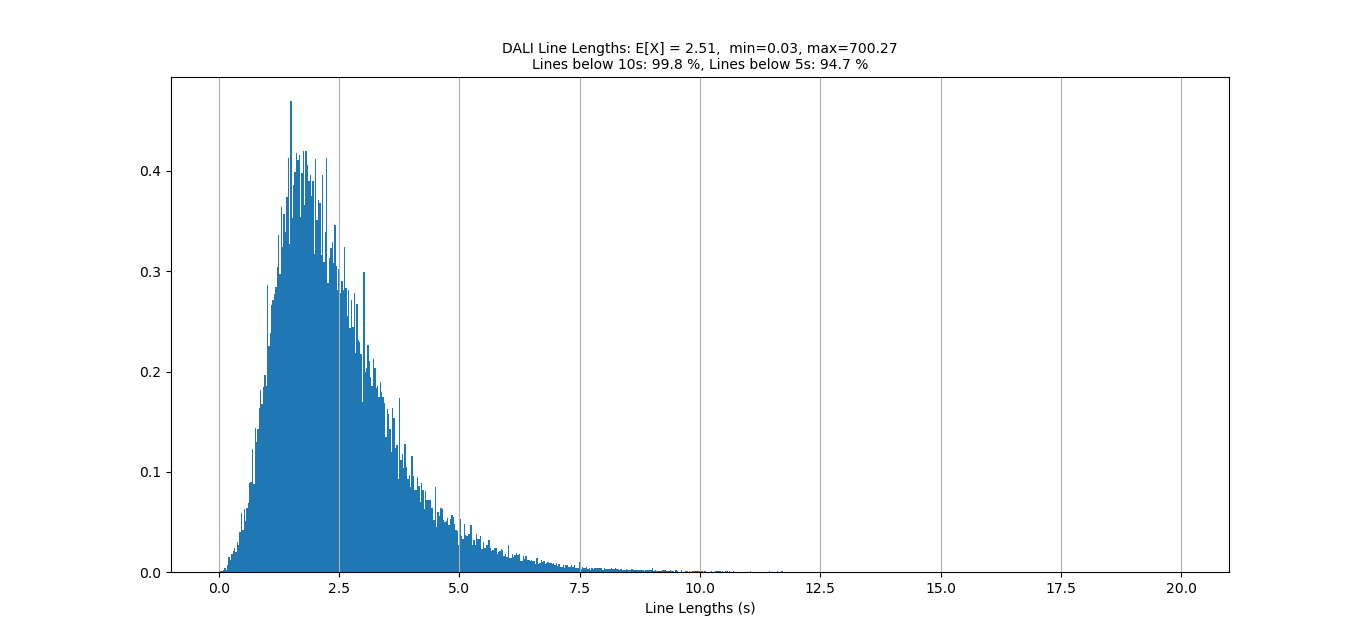
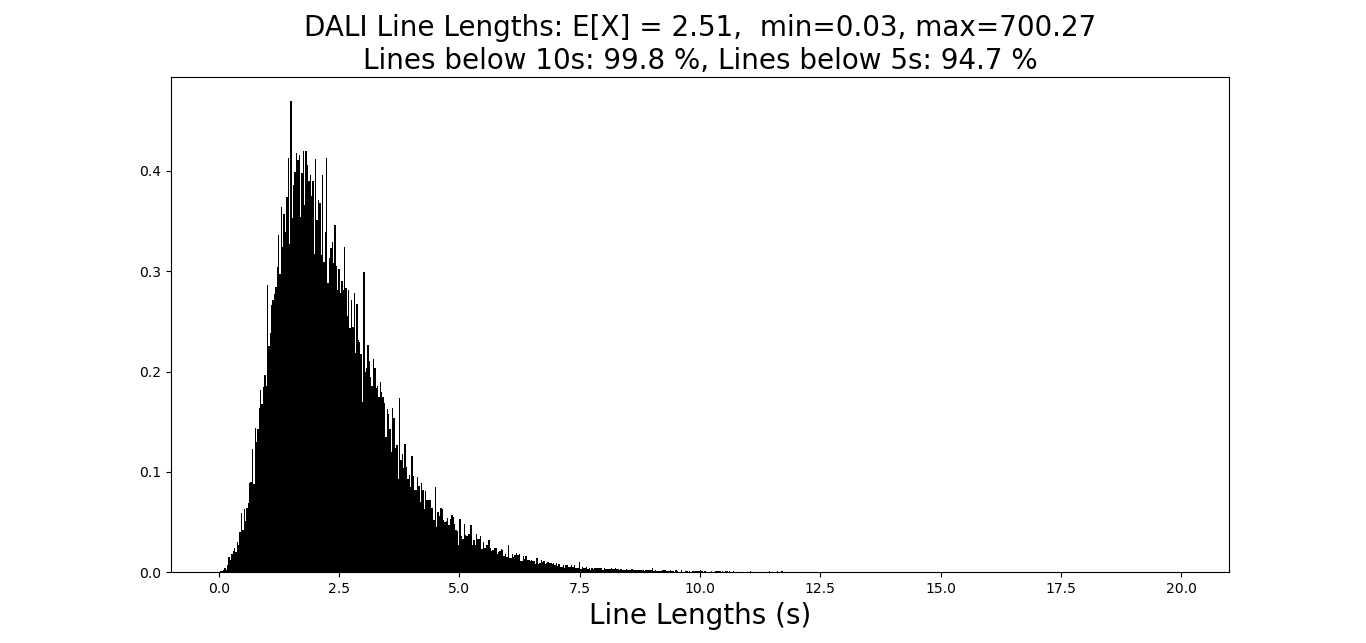
changed the font for the histogram, added the log file for line_lengths to capture the songs that have negative lines lengths.

Changed region(s): [[0.1537, 0.2488, 0.4612, 0.902], [0.2152, 0.0, 0.7994, 0.1244], [0.4305, 0.9331, 0.5842, 0.9953]]

diff --git a/dali_line_lengths.py b/dali_line_lengths.py
@@ -28,9 +28,9 @@ def line_length_hist_secs(data):
     five_sec_thresh  = 1 - (data.shape[0]-np.where( data < 5 )[0].shape[0] ) / data.shape[0]
 
     title = "DALI Line Lengths: E[X] = %.2f,  min=%.2f, max=%.2f\nLines below 10s: %.1f %%, Lines below 5s: %.1f %%" % (mu, lmin, lmax,ten_sec_thresh*100,five_sec_thresh*100)
-    plt.title(title,fontsize=10)
-    plt.xlabel('Line Lengths (s)',fontsize=10)
-    plt.hist(data,bins=int(nbins),density=True,range=(0,20))
+    plt.title(title,fontsize=20)
+    plt.xlabel('Line Lengths (s)',fontsize=20)
+    plt.hist(data,color='black',bins=int(nbins),density=True,range=(0,20))
     plt.show(block=True)
 
 if __name__ == '__main__':
